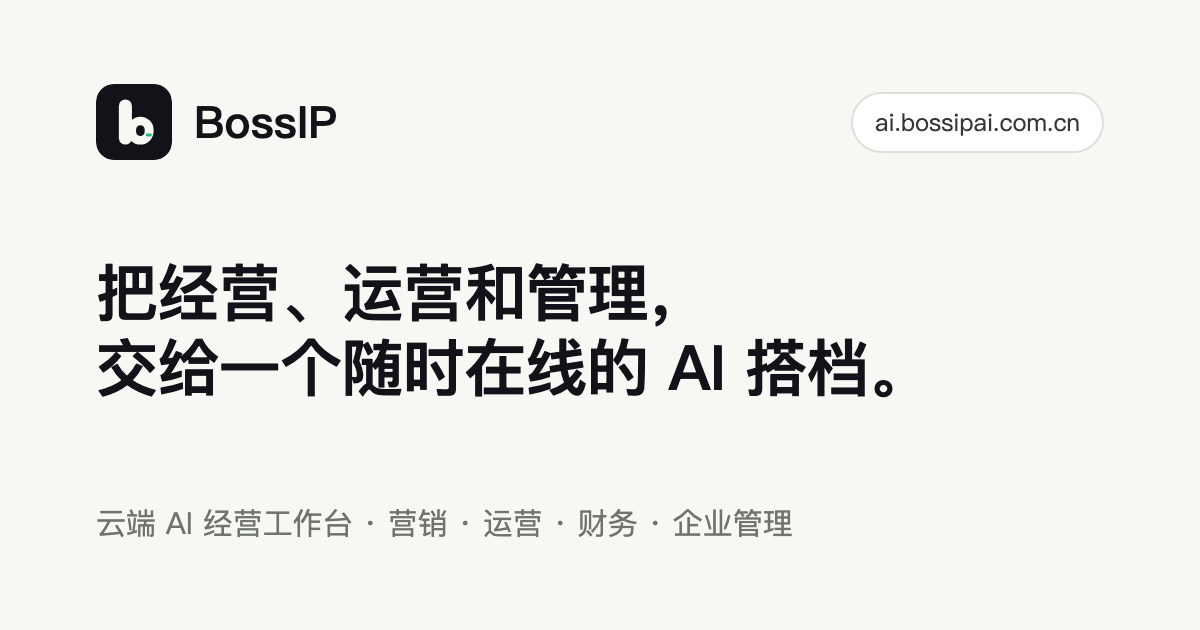
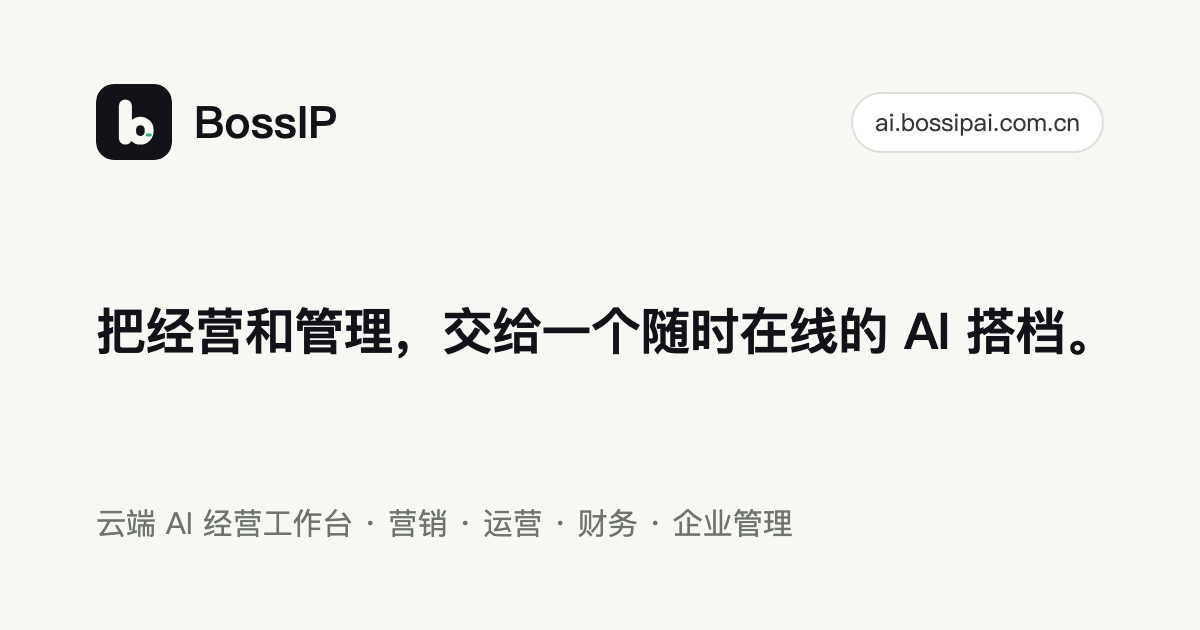
fix(landing): replace 夫妻店 with 线下店, tighten awkward zh copy
- hero.eyebrow / useCases: 夫妻店 -> 线下店 (index.html keywords too)
- fix several awkward/mismatched word pairings flagged on a professional
  Chinese-copy pass: '经营、运营和管理' trimmed to '经营和管理' (redundant
  synonyms), '连接...经营判断' -> '连在一起' (verb didn't fit an abstract
  object), '接住...琐碎重活' -> '琐碎杂务' (contradictory modifier), '落到
  ...业务动作' -> '落地为...' (unnatural collocation), '沉淀为...建议' split
  so 沉淀 only governs reusable templates/reports, missing 的 in hero.lede,
  and de-duplicated 经营/运营 in footer and index.html meta description
- regenerate og-image.png so the OG preview matches the trimmed headline

Changed region(s): [[0.0617, 0.4222, 0.925, 0.6333]]

diff --git a/frontend-v2/index.html b/frontend-v2/index.html
@@ -6,9 +6,9 @@
     <title>BossIP | 云端 AI 经营工作台</title>
     <meta
       name="description"
-      content="BossIP 是面向老板和经营团队的云端 AI 工作台，覆盖营销、门店运营、财务报表、企业管理、客服和经营分析，从一句话到可追踪的业务动作。"
+      content="BossIP 是面向老板和经营团队的云端 AI 工作台，覆盖营销、门店运营、财务报表、企业管理、客服和经营分析，从一句话落地为可追踪的业务动作。"
     />
-    <meta name="keywords" content="BossIP, AI 经营工作台, 门店运营 AI, 营销 AI, 财务分析 AI, 企业管理 AI, 夫妻店, 本地生活" />
+    <meta name="keywords" content="BossIP, AI 经营工作台, 门店运营 AI, 营销 AI, 财务分析 AI, 企业管理 AI, 线下店, 本地生活" />
     <link rel="canonical" href="https://ai.bossipai.com.cn/" />
     <meta property="og:type" content="website" />
     <meta property="og:site_name" content="BossIP" />
@@ -17,7 +17,7 @@
     <meta property="og:title" content="BossIP | 云端 AI 经营工作台" />
     <meta
       property="og:description"
-      content="把经营、运营和管理，交给一个随时在线的 AI 搭档。营销、订单、客户、财务和团队管理在同一个工作空间里推进。"
+      content="把经营和管理，交给一个随时在线的 AI 搭档。营销、订单、客户、财务和团队管理在同一个工作空间里推进。"
     />
     <meta property="og:image" content="https://ai.bossipai.com.cn/og-image.png" />
     <meta property="og:image:width" content="1200" />
@@ -26,7 +26,7 @@
     <meta name="twitter:title" content="BossIP | 云端 AI 经营工作台" />
     <meta
       name="twitter:description"
-      content="把经营、运营和管理，交给一个随时在线的 AI 搭档。营销、订单、客户、财务和团队管理在同一个工作空间里推进。"
+      content="把经营和管理，交给一个随时在线的 AI 搭档。营销、订单、客户、财务和团队管理在同一个工作空间里推进。"
     />
     <meta name="twitter:image" content="https://ai.bossipai.com.cn/og-image.png" />
     <link rel="icon" type="image/svg+xml" href="/favicon.svg" />
